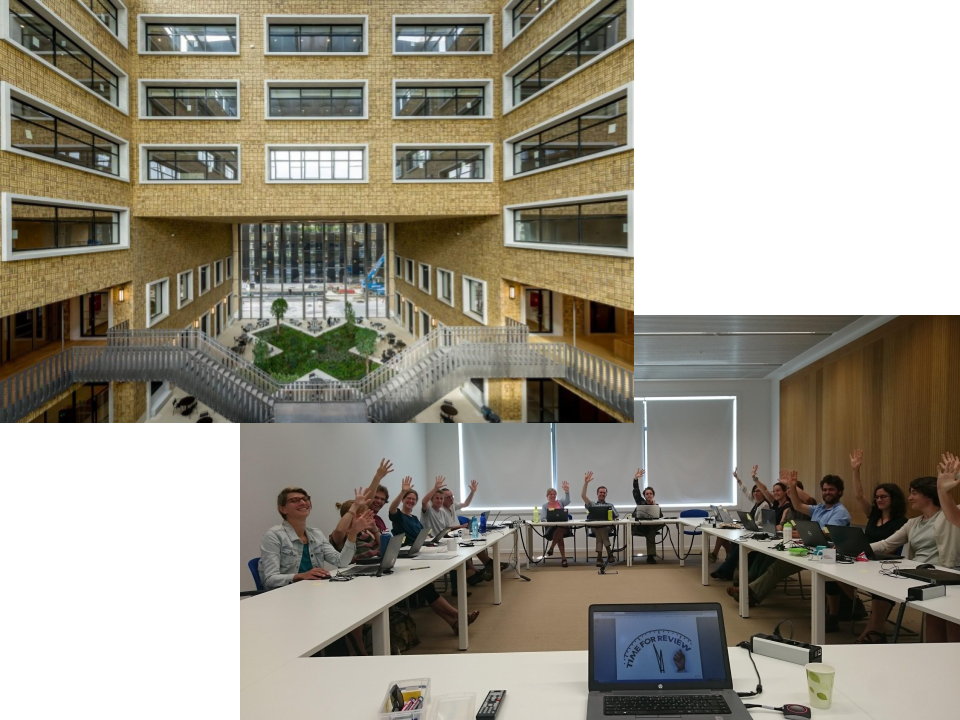
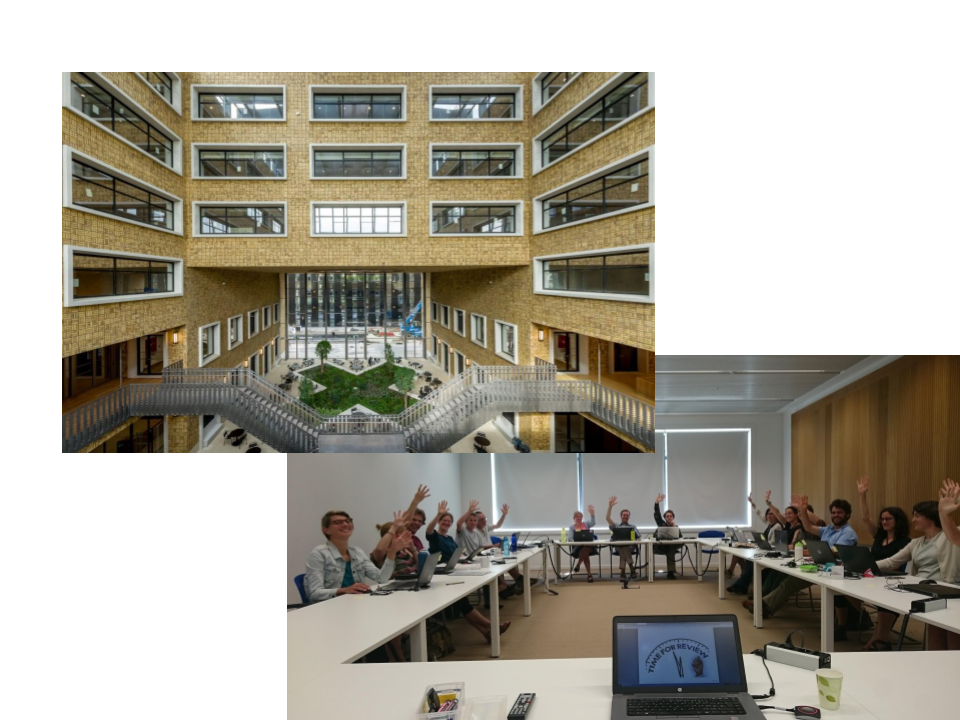
improve layout picture location and some other slides

diff --git a/docs/sessions/20191022_codingclub.html b/docs/sessions/20191022_codingclub.html
@@ -38,7 +38,7 @@ class: center, middle
 
 ## A coding club session to speak about... coding club
 
-But that's meta-coding club! ;-)
+But that's meta-coding club!
 
 ![:scale 45%]({{ site.baseurl}}/assets/images/20191022_meta_concept.jpg)
 
@@ -85,7 +85,8 @@ class: left, middle
 - How to implement a species distribution model?
 - What is machine learning?
 
-<br> as coding club:
+## As coding club
+
 - is NOT a _helpdesk_
 - is NOT a scientific tutorial
 - is NOT a lunchtalk
